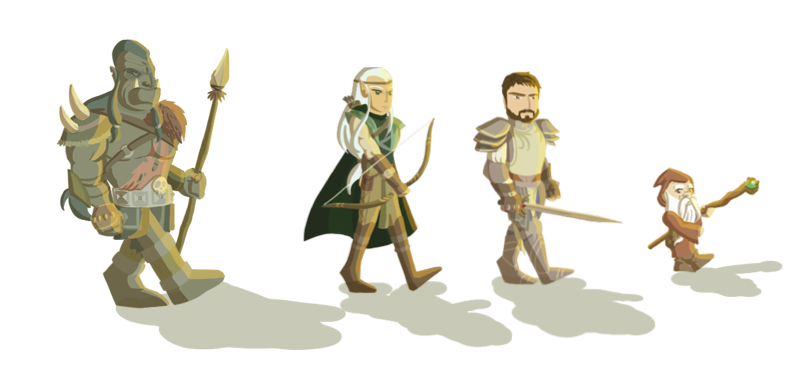
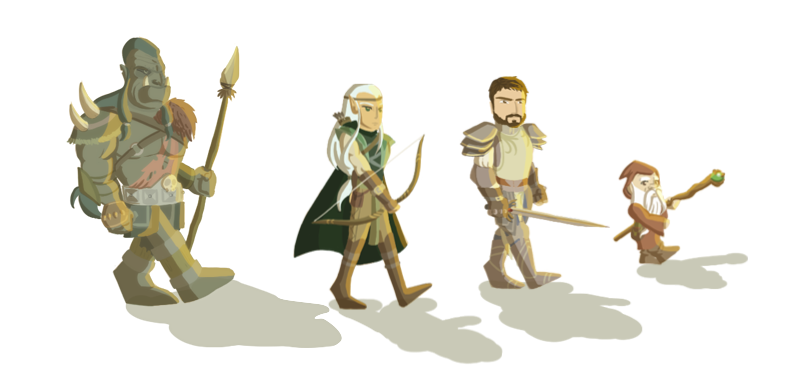
copertina updates

Changed region(s): [[0.061, 0.0868, 0.9759, 0.9553]]

diff --git a/Sito/style/mediumStyle.css b/Sito/style/mediumStyle.css
@@ -73,6 +73,35 @@ textarea,input[type="text"],input[type="date"],input[type="password"] {
 */
 
 
+
+/*
+--------------------------------------- COPERTINA ----------------------------------------------
+------------------------------------------------------------------------------------------------------------
+*/
+#copertina{
+    height: 334px;
+}
+#copertina img{
+    display:block;
+    width: 800px;
+    height: 334px;
+    position: relative;
+    left: calc(100% - 800px);
+}
+#personaggiCoperina{
+    content:"";
+    display: block;
+    width: 433px;
+    height: 204px;
+    background-image: url(../images/personaggi_copertina.png);
+    background-size: 433px 204px;
+    position: relative;
+    z-index: 2;
+    margin-top: 13%;
+    top:-290px;
+}
+
+
 /*
 --------------------------------------- PRESENTAZIONE FEATURE ----------------------------------------------
 ------------------------------------------------------------------------------------------------------------
